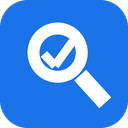
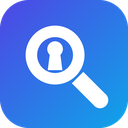
fix: capture the token even after the MV3 service worker was put to sleep
The "sign-in in progress" flag lived in a global, which Chrome wipes when it
stops the idle service worker (~30s), i.e. during any real sign-in with 2FA.
The cookie event was then ignored and GHunt kept waiting. The state now lives
in chrome.storage.session, with a tabs.onUpdated fallback that checks the
cookie when the sign-in tab finishes loading. New, cleaner icon.

Claude-Session: https://claude.ai/code/session_017zNaLR3KBWYCqz5NppKddw

diff --git a/background.js b/background.js
@@ -1,15 +1,29 @@
 // ghunt-fixed Companion: gets a FRESH oauth_token and hands it to GHunt.
 // The token is single-use: it is never cached beyond the current hand-off,
 // and the cookie is deleted from the browser once captured.
+//
+// MV3 note: the service worker is killed after ~30s idle, i.e. while the user is
+// signing in. So nothing may live in globals: the "sign-in in progress" state is
+// kept in chrome.storage.session (memory-backed, cleared when the browser closes).
 
 const LOGIN_URL = "https://accounts.google.com/EmbeddedSetup";
 const GHUNT = "http://127.0.0.1:60067";
 const PREFIX = "oauth2_4/";
+const PENDING_TTL_MS = 30 * 60 * 1000;
 
-let pending = null; // { tabId, storeId, startedAt }
+const getPending = async () => {
+  const { pending } = await chrome.storage.session.get("pending");
+  if (pending && Date.now() - pending.startedAt > PENDING_TTL_MS) {
+    await chrome.storage.session.remove("pending");
+    return null;
+  }
+  return pending || null;
+};
 
 async function removeOauthCookies(storeId) {
-  const cookies = await chrome.cookies.getAll({ name: "oauth_token", storeId });
+  const query = { name: "oauth_token" };
+  if (storeId) query.storeId = storeId;
+  const cookies = await chrome.cookies.getAll(query);
   for (const c of cookies) {
     const host = c.domain.replace(/^\./, "");
     await chrome.cookies.remove({
@@ -19,19 +33,20 @@ async function removeOauthCookies(storeId) {
 }
 
 async function startLogin(incognito) {
-  await chrome.storage.session.remove("result").catch(() => {});
+  await chrome.storage.session.remove(["result", "pending"]);
   let tab;
   if (incognito) {
-    const win = await chrome.windows.create({ url: LOGIN_URL, incognito: true }).catch(() => null);
+    const win = await chrome.windows.create({ url: "about:blank", incognito: true }).catch(() => null);
     if (!win) throw new Error("Allow the extension in private windows first (extension settings).");
     tab = win.tabs[0];
   } else {
     tab = await chrome.tabs.create({ url: "about:blank" });
   }
+  const storeId = tab.cookieStoreId || (incognito ? "1" : "0");
   // Wipe any old token in that cookie store BEFORE signing in, so we only ever see a new one.
-  await removeOauthCookies(tab.cookieStoreId || undefined).catch(() => {});
-  if (!incognito) await chrome.tabs.update(tab.id, { url: LOGIN_URL });
-  pending = { tabId: tab.id, storeId: tab.cookieStoreId, startedAt: Date.now() };
+  await removeOauthCookies(storeId).catch(() => {});
+  await chrome.storage.session.set({ pending: { tabId: tab.id, storeId, startedAt: Date.now() } });
+  await chrome.tabs.update(tab.id, { url: LOGIN_URL });
 }
 
 async function sendToGhunt(token) {
@@ -46,19 +61,38 @@ async function sendToGhunt(token) {
   }
 }
 
-chrome.cookies.onChanged.addListener(async ({ removed, cookie }) => {
-  if (removed || cookie.name !== "oauth_token" || !cookie.value.startsWith(PREFIX)) return;
+let handling = false;
+async function handleToken(token, storeId) {
+  if (handling) return;
+  const pending = await getPending();
   if (!pending) return; // only react to a sign-in WE started
-  const { tabId } = pending;
-  pending = null;
+  handling = true;
+  try {
+    await chrome.storage.session.remove("pending");
+    await removeOauthCookies(storeId || pending.storeId).catch(() => {});
+    const { sent, payload } = await sendToGhunt(token);
+    await chrome.storage.session.set({ result: { sent, payload: sent ? null : payload } });
+    const page = chrome.runtime.getURL("pages/done.html");
+    await chrome.tabs.update(pending.tabId, { url: page }).catch(() => chrome.tabs.create({ url: page }));
+  } finally {
+    handling = false;
+  }
+}
 
-  const token = cookie.value;
-  await removeOauthCookies(cookie.storeId).catch(() => {});
-  const { sent, payload } = await sendToGhunt(token);
-  // Kept only in memory-backed session storage until the result page reads it.
-  await chrome.storage.session.set({ result: { sent, payload: sent ? null : payload } });
-  await chrome.tabs.update(tabId, { url: chrome.runtime.getURL("pages/done.html") }).catch(() =>
-    chrome.tabs.create({ url: chrome.runtime.getURL("pages/done.html") }));
+// Main path: Google sets the cookie at the end of the sign-in.
+chrome.cookies.onChanged.addListener(({ removed, cookie }) => {
+  if (removed || cookie.name !== "oauth_token" || !cookie.value.startsWith(PREFIX)) return;
+  handleToken(cookie.value, cookie.storeId);
+});
+
+// Fallback: whenever the sign-in tab finishes loading a Google page, look for the cookie.
+chrome.tabs.onUpdated.addListener(async (tabId, info, tab) => {
+  if (info.status !== "complete" || !tab.url || !tab.url.startsWith("https://accounts.google.com/")) return;
+  const pending = await getPending();
+  if (!pending || pending.tabId !== tabId) return;
+  const cookies = await chrome.cookies.getAll({ name: "oauth_token", storeId: pending.storeId });
+  const fresh = cookies.find((c) => c.value.startsWith(PREFIX));
+  if (fresh) handleToken(fresh.value, fresh.storeId);
 });
 
 chrome.runtime.onMessage.addListener((msg, _sender, reply) => {
